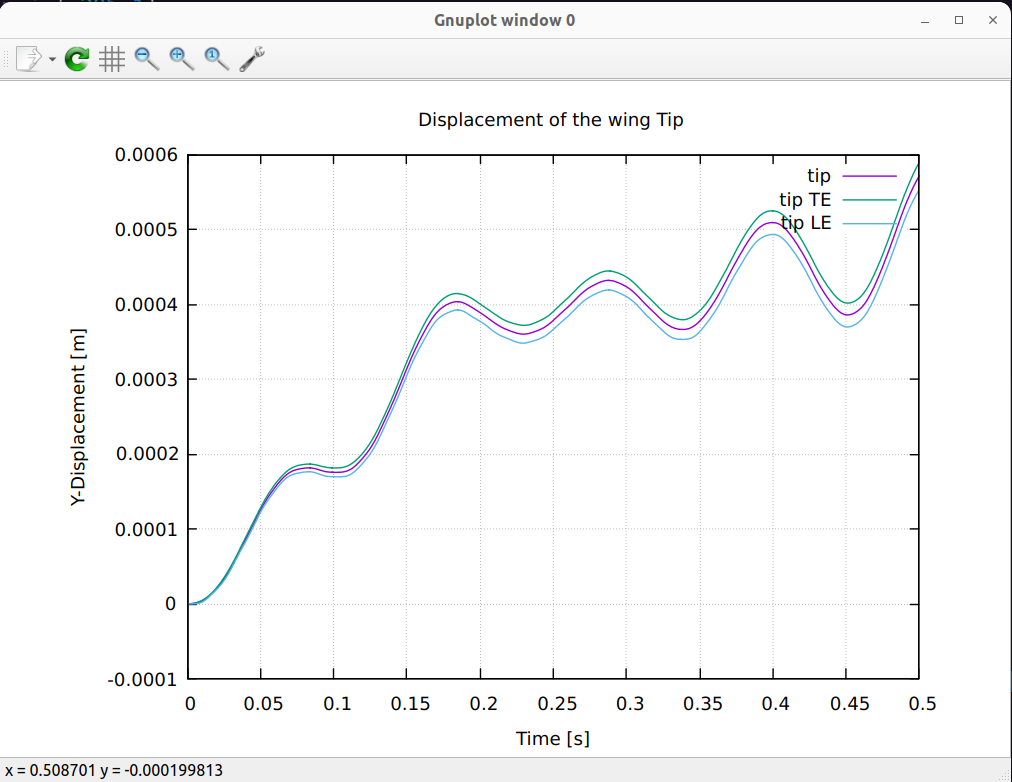
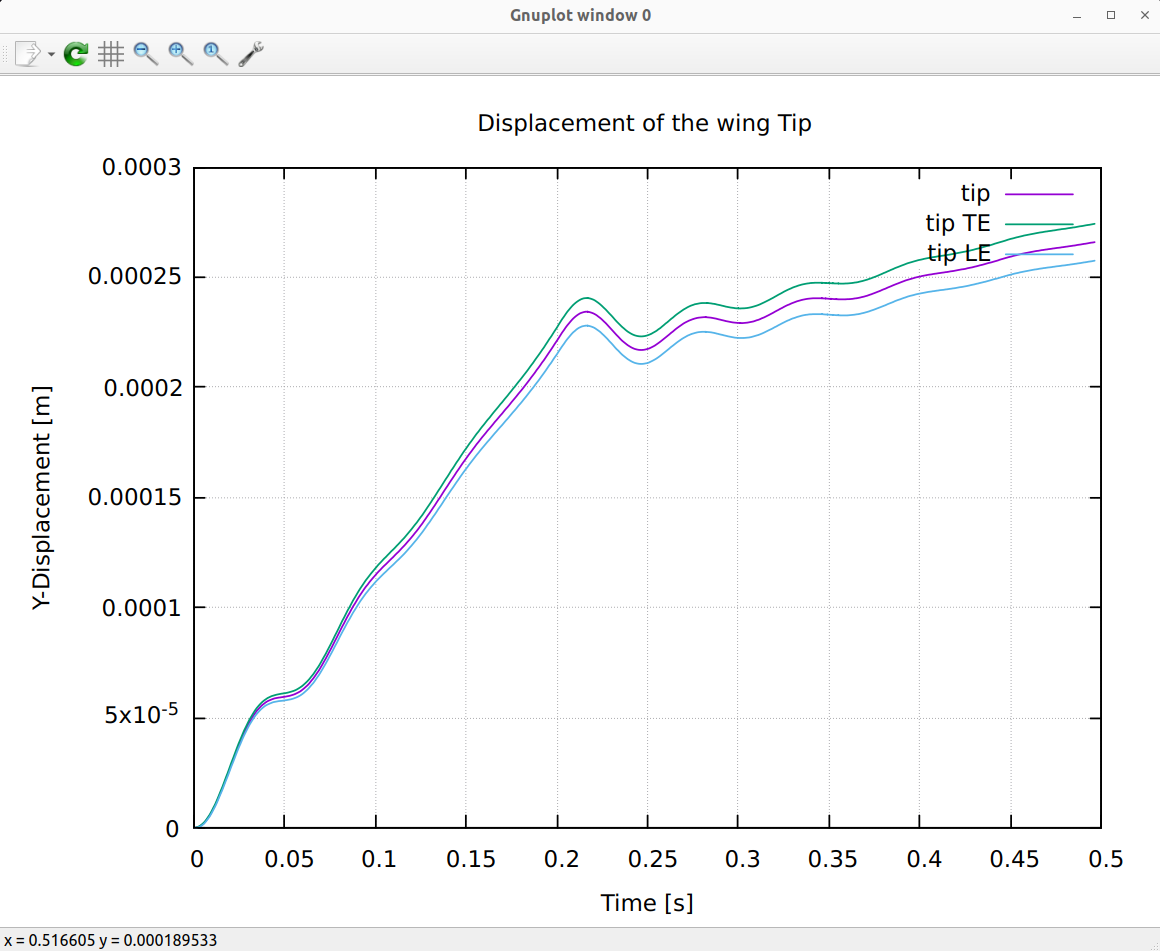
fsi solution water: update parameters to avoid divergence. also update skeleton solid to match

diff --git a/fsi-workflow/05_FSI/solution/FSI_water/plotConvergence.py b/fsi-workflow/05_FSI/solution/FSI_water/plotConvergence.py
@@ -22,11 +22,13 @@ plt.plot(data[:,0],data[:,2],label='displacement')
 plt.plot(data[:,0],data[:,3],label='force')
 plt.yscale('log')
 plt.legend()
+#plt.xlim([0,500])
 plt.grid()
 plt.xlabel('time step')
 plt.ylabel('convergence')
 plt.subplot(2,1,2)
 plt.plot(data[:,0],data[:,1])
+#plt.xlim([0,500])
 plt.ylim([0,8])
 plt.grid()
 plt.xlabel('time step')

diff --git a/fsi-workflow/05_FSI/tasks.md b/fsi-workflow/05_FSI/tasks.md
@@ -15,7 +15,7 @@ You need to use the mesh generated in step `01_solidMesh`: copy the `.inp` mesh 
 Check the following information in the file:
 
 - section `*INCLUDE`: we are including the mesh named `wing2312_m.inp`, replace `with the actual name of your mesh, if different
-- section `*MATERIAL`: the material properties correspond to a polymeric material close to PTFE
+- section `*MATERIAL`: the material properties correspond to a polymeric material close Polystyrene or ABS
 - section `*DYNAMIC`: we perform a simulation $0.5$ seconds long with a time-step of $1ms$
 - section `*BOUNDARY`: the group of the **root** (`Nroot_Nodes`) is fixed
 - section `*AMPLITUDE`: we ramp the loading of the wing, starting with the $5\%$ of the total load, arriving at $100\%$ after $0.2s$
